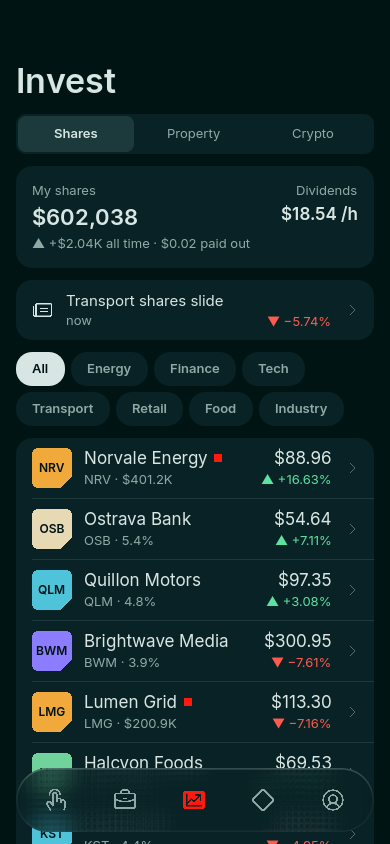
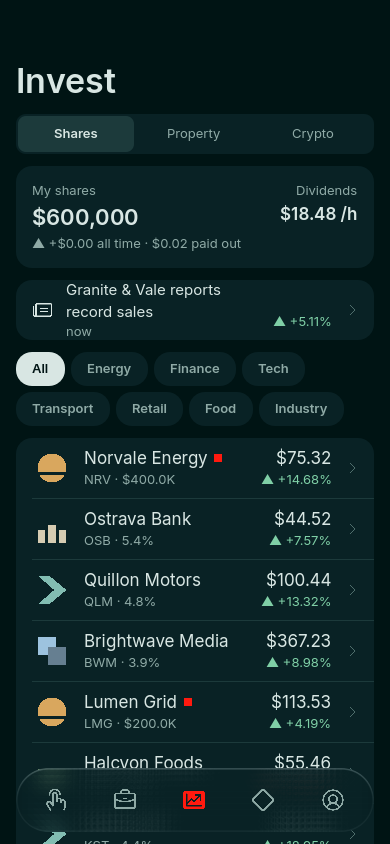
Design and wording pass: bare marks, muted accents
- Company and coin badges are now bare shapes (no tile behind them)
- Accent colours toned down to sit with the teal
- Empty values show "None"; README notice rewritten as plain text
- Screenshots refreshed

Claude-Session: https://claude.ai/code/session_01G43aEuqkjUy83khniNYyKE

diff --git a/README.md b/README.md
@@ -16,10 +16,11 @@ Tap to earn, start companies, trade made-up shares and coins, buy property and b
 
 ## Please read
 
-- **Personal project.** This is not a product. There is no support, and no promise it works on your phone.
-- **Install at your own risk.** If you install it, you accept any problems it causes. See [LICENSE](LICENSE).
-- **It is only a game.** No real money, no real shares, no real crypto. Every company, coin and place is made up. Any likeness to a real one is chance. Nothing here is financial advice.
-- **No ads, no payments, no accounts.**
+This is a personal project, not a product. There is no support, and no promise it works on your phone.
+
+If you install it, you do so at your own risk (see [LICENSE](LICENSE)).
+
+It's only a game. There's no real money, no real shares and no real crypto. Every company, coin and place is made up, and nothing here is financial advice. No ads, no payments, no accounts.
 
 ## Privacy
 
